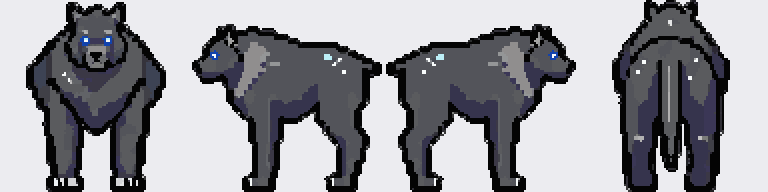
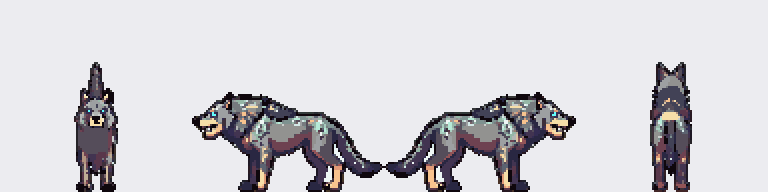
README·메모: 늑대 예시·걷기 GIF, 네 발 걷기 설명

diff --git a/CLAUDE.md b/CLAUDE.md
@@ -7,7 +7,7 @@
 
 ## 규칙
 - 답·커밋 메시지는 한국어, 쉬운 말. 단계마다 원자적 커밋 후 main에 바로 push 허락됨(개인 계정 ymc-crow, 2026-11-02).
-- 커밋 전 `.venv/bin/ruff check .` 와 `.venv/bin/python -m pytest -q` (지금 67개 통과).
+- 커밋 전 `.venv/bin/ruff check .` 와 `.venv/bin/python -m pytest -q` (지금 68개 통과).
 
 ## 구조
 - `cli.py` 정지 그림: Z-Image로 768x320 캔버스에 4방향을 한 장에 그림(치비 OpenPose 뼈대) → `pixelate.downscale_sprites`로 48px.
@@ -108,7 +108,9 @@
    각도: 옆 20° 위, 앞·뒤는 25° 돌리고 30° 위(똑바로 앞 25°면 두 발로 보여 섬, 45°면 등이 위로 솟아 앉은 모양).
    길잡이 칸의 72%(92%면 날개 잘림). 2차 16단계 0.6875(8단계에선 0.69=0.75라 중간값 불가; 0.625 납작, 0.75 섬).
    길잡이 세기 0.8은 0.6과 차이 없음. 옆 방향은 길잡이 겹침으로(`face_profiles`), 두 옆 중 길잡이와 더 닮은 쪽(`guide_match`).
-   결과: 용 4방향 네 발, 날개 안 잘림. 늑대는 옆 좋음, 앞·뒤가 뒤바뀐 듯 보임(앞은 꼬리 들고 돌아섬, 뒤는 고개 돌려 봄) → 남은 일.
+   결과: 용 4방향 네 발, 날개 안 잘림. 늑대는 돌린 각도면 앞·뒤가 뒤바뀐 듯 보여서 날씬한 몸(lean)은 앞·뒤 똑바로 → 늑대 4방향 바름.
+   걷기(`creature.trot`/`stride`): sheet.json `quadruped: true`면 깡충 대신 다리만 움직임. 다리 영역 = 발에서 위로 몸이 여러 줄기로
+   갈라지는 줄들, 바로 위 몸통 폭 안만(낮은 꼬리 제외). 옆은 앞·뒷다리 반대로 흔들기(발 3px/48), 앞·뒤는 좌우 번갈아 들기.
    메모리 빠듯하면(스왑 7GB) 16단계 2차가 단계당 45초까지 느려짐.
    해 보고 버린 것: 프롬프트만('사자처럼 네 발로' 등) → 용·늑대 그대로 섬. 칸 가로로 넓게(2048x448) → 그대로 서고 옆 칸에 정면이 들어감.
    길잡이만 0.6/1.0 → 늑대는 옆·뒤 네 발, 용은 그대로 섬, 1.0은 길잡이 직사각형 다리를 검은 막대로 그림. 출발 실루엣 빨강 → 늑대가 갈색+날개.

diff --git a/README.md b/README.md
@@ -102,7 +102,8 @@ dragons and wolves up like people), so it follows a depth map of a real
 four-legged animal instead of the human skeleton: CC0 3D models (a wolf, and a
 bull for bulky beasts like dragons) rendered once by
 `tools/make_quadruped_guides.py`, profiles seen from a little above, front and
-back turned a little so all four legs show. It is drawn twice:
+back turned a little for bulky bodies so all four legs show (straight on for
+slim ones). It is drawn twice:
 
 1. From the guide's silhouette in gray.
 2. The profiles are kept; the front and back are painted again from the
@@ -112,7 +113,13 @@ Profiles drawn facing the wrong way are turned round to fit the guide, and of
 the two the one closer to the guide is kept. A four-legged dragon also gets a
 heavy dinosaur body in the prompt. Takes about three times as long.
 
+Four-legged creatures walk on their legs: in profile the front and hind legs
+swing opposite ways, from the front and back the left and right legs lift in
+turn, and the body only bobs.
+
 ![wolf](examples/bosses/wolf.png) `giant dire wolf, gray fur, glowing blue eyes, four legs` (seed 4)
+
+![wolf motions](examples/bosses/wolf.gif)
 
 ## Motions
 
@@ -257,8 +264,8 @@ Options:
   over). No `--redraw` and no `cast` for them.
 - Creatures move as one piece except for wings and the tail of a profile (no
   walking legs), and wide wings can still touch the edge of their view.
-  Four-legged front and back views are turned a little; a slim wolf can come
-  out looking back over its shoulder, so front and back read swapped.
+  Four-legged creatures move their legs only in `walk`; `attack` and `death`
+  move the whole body.
 - `death` frames halfway down (tipping 30-65 degrees) look rougher than the
   rest.
 
